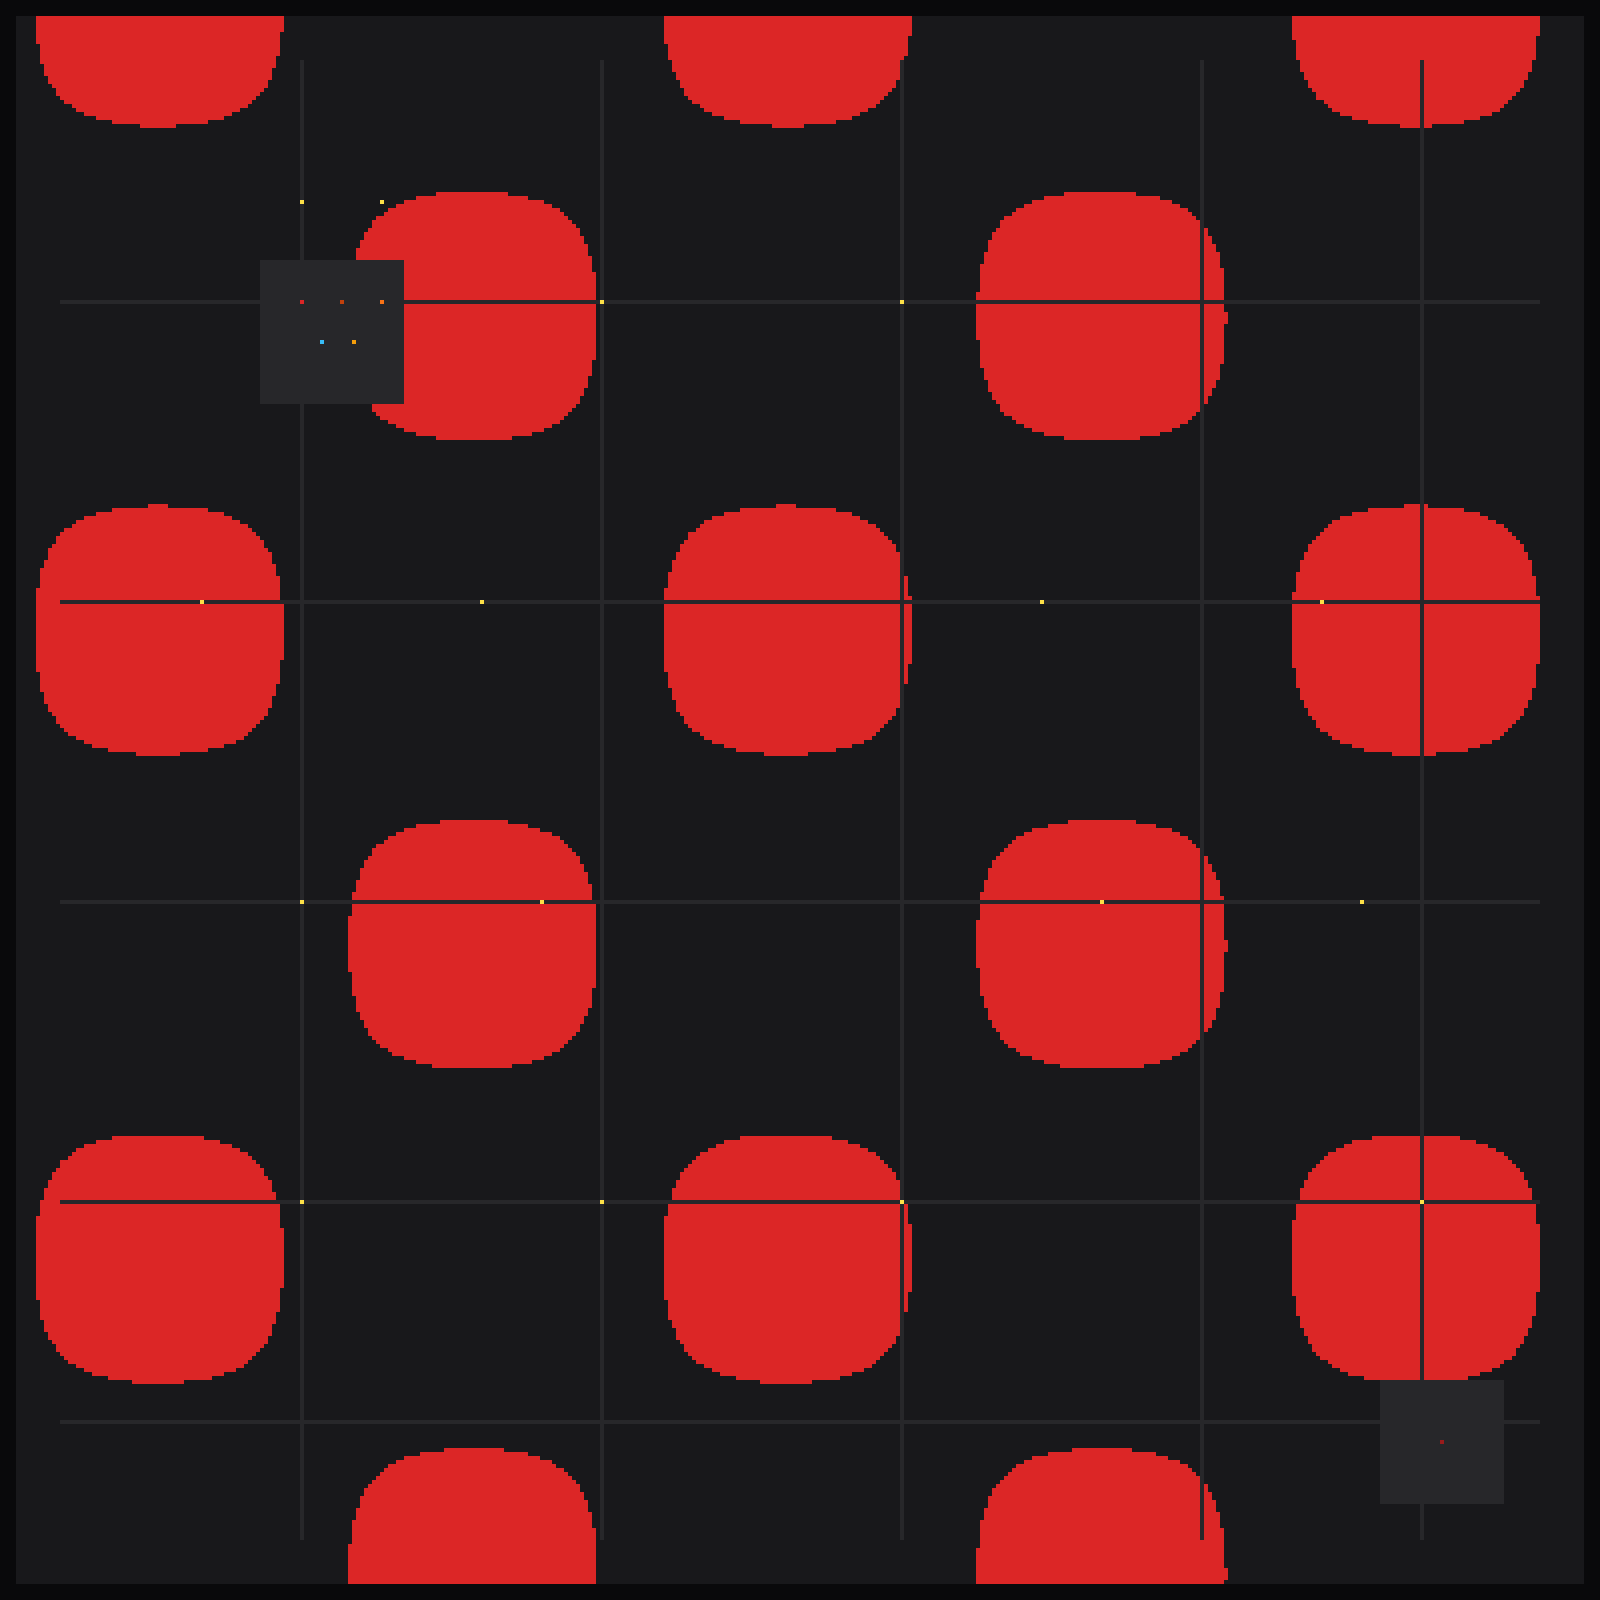
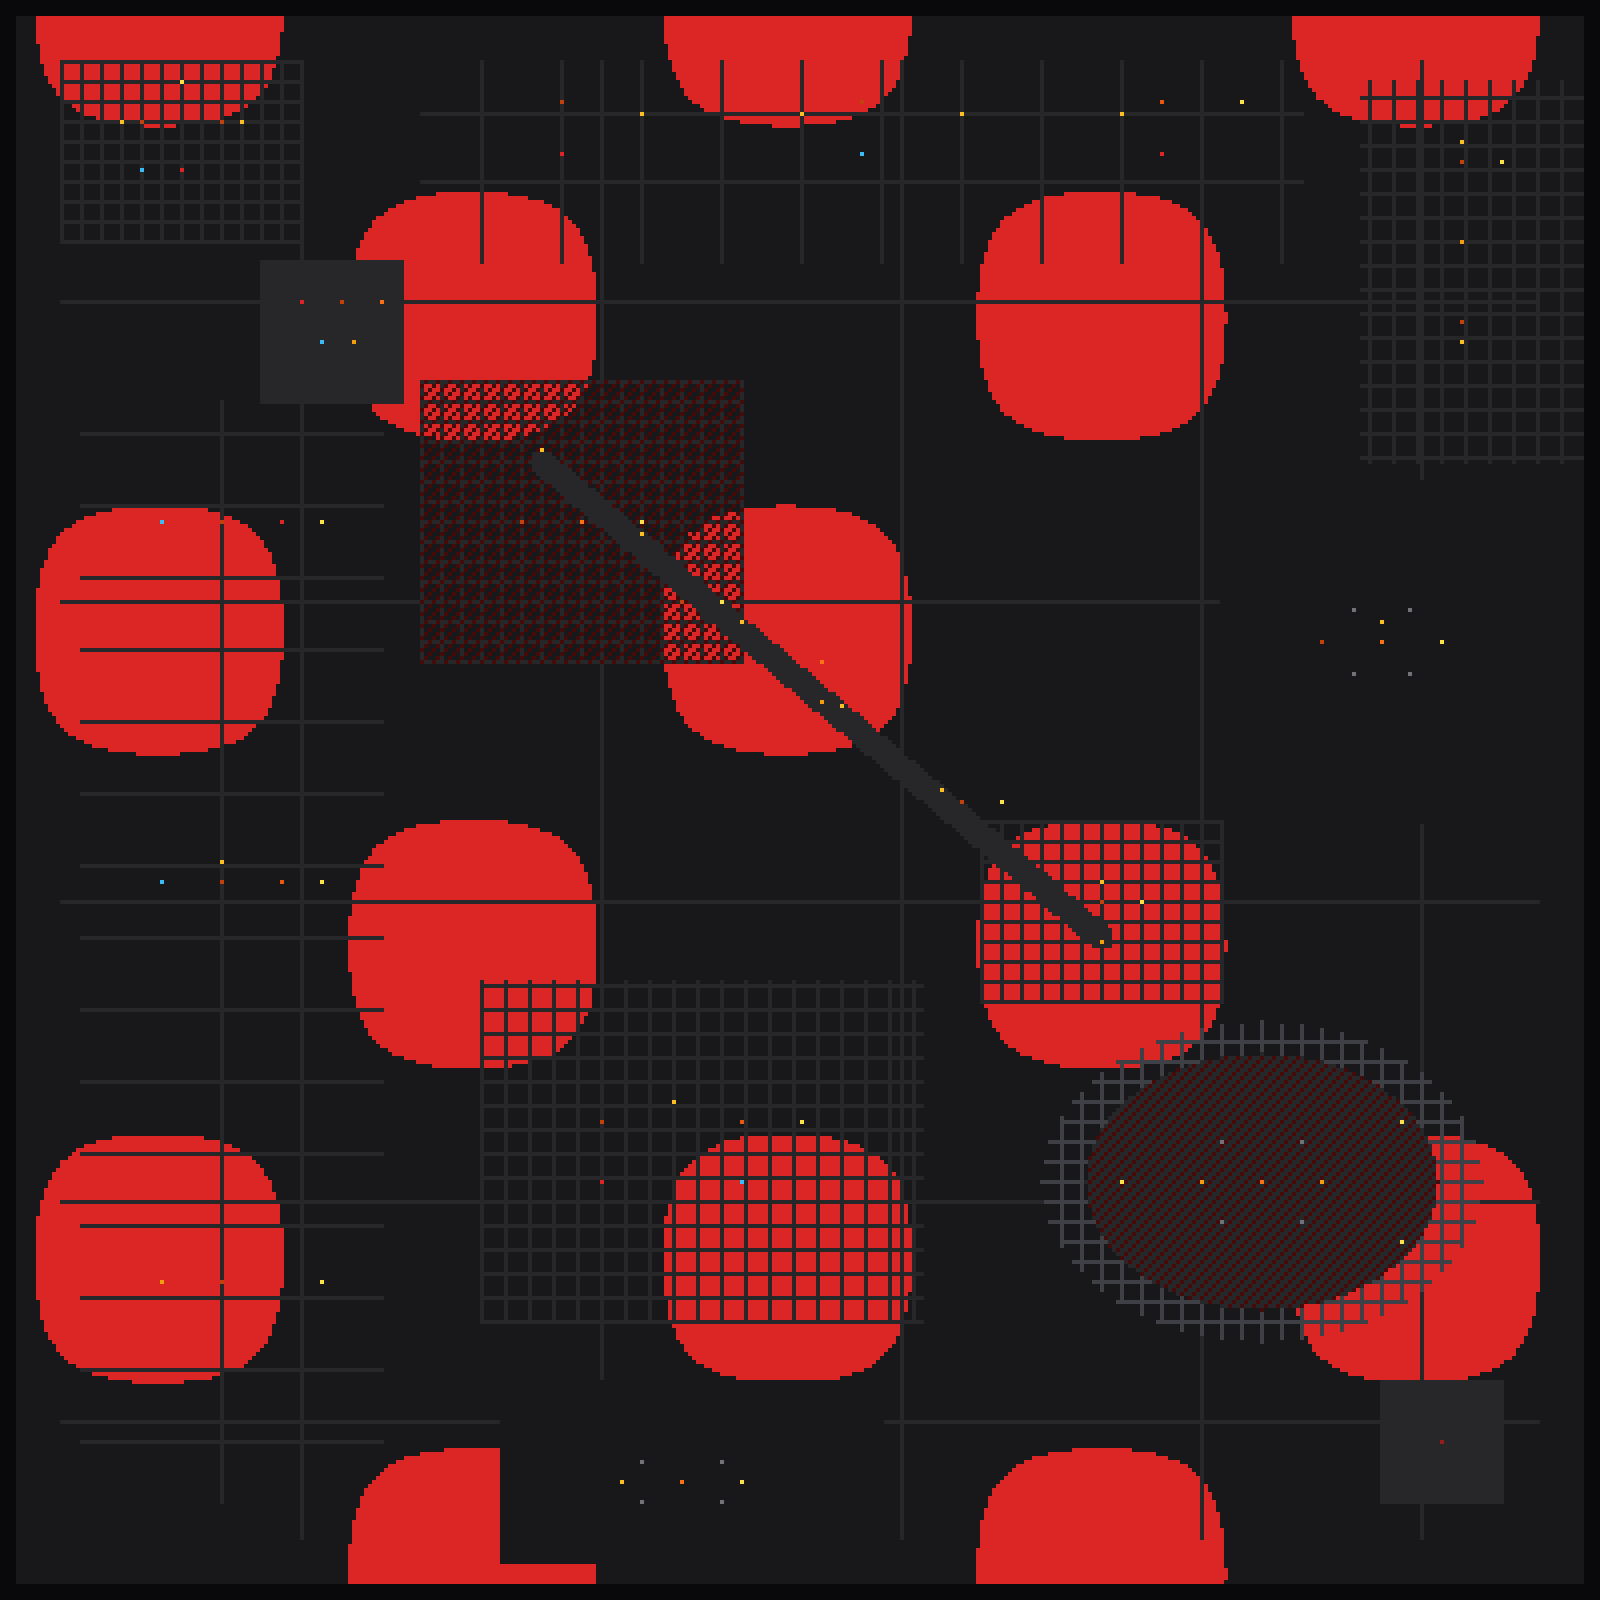
feat: populate Map 4 ancestral volcano with titan forges, magma viaducts, dragon bastions, and 12 new NPCs

diff --git a/src/data/worldMapGenerator400.ts b/src/data/worldMapGenerator400.ts
@@ -1230,13 +1230,173 @@ export function generateVolcano400(): {
   }
   map[360][360] = 11;
 
-  const volcanoChests = [
-    [75, 50], [95, 50], [150, 75], [225, 75],
-    [50, 150], [120, 150], [260, 150], [330, 150],
-    [75, 225], [135, 225], [275, 225], [340, 225],
-    [75, 300], [150, 300], [225, 300], [355, 300]
-  ];
-  volcanoChests.forEach(([cx, cy]) => { map[cy][cx] = 7; });
+  // =========================================================================
+  // 1. PUESTO DEL CRÁTER SUPERIOR (Noroeste: X: 15..75, Y: 15..60)
+  // =========================================================================
+  for (let y = 15; y <= 60; y++) {
+    for (let x = 15; x <= 75; x++) {
+      if (x % 5 === 0 || y % 5 === 0) map[y][x] = 2;
+    }
+  }
+  map[30][35] = 5;  // Cabaña de Basalto 1
+  map[30][55] = 5;  // Cabaña de Basalto 2
+  map[42][45] = 10; // Forja del Cráter
+  map[42][35] = 4;  // Pozo Térmico
+  map[20][45] = 7;  // Cofre del Cráter
+  map[30][30] = 17; map[30][60] = 17;
+
+  // =========================================================================
+  // 2. GRAN CALZADA DE BASALTO Y FUNDICIÓN SUPERIOR (Norte: X: 105..325, Y: 15..65)
+  // =========================================================================
+  for (let y = 15; y <= 65; y++) {
+    for (let x = 105; x <= 325; x++) {
+      if (y === 28 || y === 45 || x % 20 === 0) map[y][x] = 2;
+    }
+  }
+  map[25][140] = 5;  // Taller de Fundición 1
+  map[25][215] = 5;  // Taller de Fundición 2
+  map[25][290] = 9;  // Almacén de Lingotes Ígneos
+  map[38][140] = 10; // Forja Colosal de Lava
+  map[38][290] = 10; // Forja de Titanio
+  map[38][215] = 4;  // Pozo de Enfriamiento
+  map[25][310] = 7;  // Cofre de la Fundición
+  map[28][160] = 17; map[28][200] = 17; map[28][240] = 17; map[28][280] = 17;
+
+  // =========================================================================
+  // 3. ATALAYA DE LAS CENIZAS ARDIENTES (Noreste: X: 340..395, Y: 20..115)
+  // =========================================================================
+  for (let y = 20; y <= 115; y++) {
+    for (let x = 340; x <= 395; x++) {
+      if (x % 6 === 0 || y % 6 === 0) map[y][x] = 2;
+    }
+  }
+  map[40][365] = 5;  // Atalaya de Cenizas
+  map[80][365] = 5;  // Refugio de Guardia
+  map[60][365] = 19; // Gran Fuego de Ascuas
+  map[40][375] = 7;  // Cofre de Cenizas
+  map[35][365] = 17; map[85][365] = 17;
+
+  // =========================================================================
+  // 4. GRAN AVENIDA DE BASALTO OCCIDENTAL (Oeste: X: 20..95, Y: 100..375)
+  // =========================================================================
+  for (let y = 100; y <= 375; y++) {
+    for (let x = 20; x <= 95; x++) {
+      if (x === 55 || y % 18 === 0) map[y][x] = 2;
+    }
+  }
+  // Barrio Alto (Y: 130)
+  map[130][55] = 5; map[130][70] = 10; map[130][40] = 4; map[130][80] = 7;
+  // Plaza Central (Y: 220)
+  map[220][55] = 5; map[220][70] = 9; map[220][40] = 4; map[220][80] = 7; map[215][55] = 17;
+  // Bastión Minero del Sur (Y: 320)
+  map[320][55] = 5; map[320][70] = 10; map[320][40] = 19; map[320][80] = 7;
+
+  // =========================================================================
+  // 5. LABORATORIO PIROCLÁSTICO DE AZUFRE (Centro-Noroeste: X: 105..185, Y: 95..165)
+  // =========================================================================
+  for (let y = 95; y <= 165; y++) {
+    for (let x = 105; x <= 185; x++) {
+      if ((x + y) % 3 === 0) map[y][x] = 14;
+      else if (x % 5 === 0 || y % 5 === 0) map[y][x] = 2;
+    }
+  }
+  map[130][145] = 8;  // Santuario de Fuego Purificador
+  map[130][130] = 5;  // Laboratorio de Azufre
+  map[130][160] = 7;  // Cofre de Azufre
+  map[125][145] = 17;
+
+  // =========================================================================
+  // 6. GRAN VIADUCTO CENTRAL SOBRE EL MAR DE MAGMA (Diagonal: X: 125..290, Y: 110..245)
+  // =========================================================================
+  for (let i = 0; i <= 140; i++) {
+    const vx = 135 + i;
+    const vy = 115 + Math.round(i * 0.85);
+    for (let dy = -2; dy <= 2; dy++) {
+      for (let dx = -2; dx <= 2; dx++) {
+        map[vy + dy][vx + dx] = 2; // Calzada ignífuga reforzada
+      }
+    }
+    if (i % 25 === 0) map[vy - 3][vx] = 17;
+  }
+  map[150][170] = 5;  // Puesto de Control 1
+  map[200][240] = 5;  // Puesto de Control 2
+  map[175][205] = 19; // Gran Fuego Titánico
+  map[165][205] = 8;  // Santuario del Viaducto
+  map[150][180] = 7; map[200][250] = 7; // Cofres del Viaducto
+
+  // =========================================================================
+  // 7. CÁMARA DE LAS GEODAS DE RUBÍ Y CRISTAL (Centro-Este: X: 305..385, Y: 120..205)
+  // =========================================================================
+  for (let y = 120; y <= 205; y++) {
+    for (let x = 305; x <= 385; x++) {
+      map[y][x] = 0;
+    }
+  }
+  map[160][345] = 8;  // Santuario de Rubí
+  map[160][330] = 5;  // Cabaña de Gemólogos
+  map[152][338] = 18; map[152][352] = 18; map[168][338] = 18; map[168][352] = 18; // Columnas
+  map[160][360] = 7;  // Cofre de Rubíes
+  map[155][345] = 17;
+
+  // =========================================================================
+  // 8. PUESTO DE GUARDIA DEL PUENTE DE FUEGO (Medio-Este: X: 245..305, Y: 205..250)
+  // =========================================================================
+  for (let y = 205; y <= 250; y++) {
+    for (let x = 245; x <= 305; x++) {
+      if (x % 5 === 0 || y % 5 === 0) map[y][x] = 2;
+    }
+  }
+  map[225][275] = 5;  // Cuartel de Guardia
+  map[235][275] = 19; // Fogata
+  map[225][285] = 7;  // Cofre de Armas
+  map[220][275] = 17;
+
+  // =========================================================================
+  // 9. POBLADO DE LOS DOMADORES DE SALAMANDRAS (Suroeste: X: 120..230, Y: 245..330)
+  // =========================================================================
+  for (let y = 245; y <= 330; y++) {
+    for (let x = 120; x <= 230; x++) {
+      if (x % 6 === 0 || y % 6 === 0) map[y][x] = 2;
+    }
+  }
+  map[280][150] = 5;  // Cabaña de Domadores
+  map[280][185] = 9;  // Puesto de Escamas de Dragón
+  map[295][150] = 10; // Forja de Corazas
+  map[295][185] = 4;  // Pozo
+  map[280][200] = 7;  // Cofre de Salamandras
+  map[275][168] = 17;
+
+  // =========================================================================
+  // 10. BASTIÓN DE LA GUARDIA DE DRAGONES Y CRIPTA (Sureste: X: 255..380, Y: 255..345)
+  // =========================================================================
+  for (let y = 255; y <= 345; y++) {
+    for (let x = 255; x <= 380; x++) {
+      const d = Math.hypot((x - 315) / 55, (y - 295) / 40);
+      if (d <= 0.8) {
+        map[y][x] = (x + y) % 3 === 0 ? 14 : 2;
+      } else if (d <= 1.0) {
+        if ((x * y) % 5 === 0) map[y][x] = 16; // Lápidas de dragones
+      }
+    }
+  }
+  map[295][315] = 8;  // Gran Mausoleo de Ceniza
+  map[285][305] = 18; map[285][325] = 18; map[305][305] = 18; map[305][325] = 18;
+  map[295][300] = 19; map[295][330] = 19; // Fuegos de dragón
+  // 3 Cofres Titánicos
+  map[295][280] = 7; map[280][350] = 7; map[310][350] = 7;
+
+  // =========================================================================
+  // 11. SANTUARIO DEL CORAZÓN DEL TITÁN (Fondo Sur: X: 125..220, Y: 345..390)
+  // =========================================================================
+  for (let y = 345; y <= 390; y++) {
+    for (let x = 125; x <= 220; x++) {
+      map[y][x] = 0;
+    }
+  }
+  map[370][170] = 8;  // Santuario del Corazón del Titán
+  map[365][160] = 18; map[365][180] = 18; map[375][160] = 18; map[375][180] = 18;
+  map[370][185] = 7;  // Cofre Ancestral
+  map[370][155] = 17;
 
   return {
     tileData: map,

diff --git a/src/data/zonesData.ts b/src/data/zonesData.ts
@@ -1042,6 +1042,174 @@ export const ZONES: Zone[] = [
         tip: '💡 CONSEJO DE FUEGO: Usa habilidades de elemento Hielo o Sagrado para infligir daño crítico en el volcán.',
         quest: ALL_GAME_QUESTS.find((q) => q.id === 'q_main_volcano_1'),
       },
+      {
+        id: 'npc_volcano_crater_scout',
+        zoneId: 'zone_volcano',
+        x: 35,
+        y: 30,
+        name: 'Vigía Kael',
+        title: 'Observador del Cráter Superior',
+        avatarStyle: 'scout',
+        dialogue: [
+          '¡El humo del cráter arde con fuerza hoy! El río de lava corre directamente hacia la Gran Calzada.',
+          'Nuestras cabañas de basalto negro están reforzadas para resistir la lluvia de cenizas.'
+        ],
+        tip: '💡 CONSEJO DE CRÁTER: En los pozos térmicos del norte puedes enfriar y forjar armas incandescentes.',
+      },
+      {
+        id: 'npc_volcano_master_foundry',
+        zoneId: 'zone_volcano',
+        x: 140,
+        y: 25,
+        name: 'Maestro Vulkan',
+        title: 'Gran Fundidor de Ignis',
+        avatarStyle: 'blacksmith',
+        dialogue: [
+          '¡Canalizamos el magma volcánico directamente a través de las calzadas de piedra para alimentar nuestras forjas!',
+          'El acero de titanio forjado aquí no se quiebra ni bajo la fuerza de un dragón colosal.'
+        ],
+        tip: '💡 CONSEJO DE FUNDICIÓN: Las armas de titanio ígneo causan un 40% de daño continuo por quemadura.',
+      },
+      {
+        id: 'npc_volcano_ash_sentinel',
+        zoneId: 'zone_volcano',
+        x: 365,
+        y: 40,
+        name: 'Centinela Ragnor',
+        title: 'Vigía de las Cenizas Ardientes',
+        avatarStyle: 'knight',
+        dialogue: [
+          'Desde esta atalaya rocosa vigilamos el espacio aéreo del volcán. Los dragones menores surcan los cielos.',
+          'Mantén tu escudo arriba; los proyectiles de lava caen sin previo aviso.'
+        ],
+        tip: '💡 CONSEJO DE VIGÍA: El elemento Hielo ralentiza la velocidad de los monstruos de fuego a la mitad.',
+      },
+      {
+        id: 'npc_volcano_high_blacksmith',
+        zoneId: 'zone_volcano',
+        x: 70,
+        y: 130,
+        name: 'Herrero Brann',
+        title: 'Armero del Barrio Alto',
+        avatarStyle: 'blacksmith',
+        dialogue: [
+          'Nuestras forjas del oeste templan espadas de magma con una aleación secreta de azufre y obsidiana.',
+          'Si sigues la avenida de basalto hacia el sur, llegarás a la Plaza Central y a la Taberna de la Brasa.'
+        ],
+        tip: '💡 CONSEJO DE AVENIDA: La gran calzada de basalto occidental te permite cruzar el mapa de norte a sur sin pisar lava.',
+      },
+      {
+        id: 'npc_volcano_innkeeper',
+        zoneId: 'zone_volcano',
+        x: 55,
+        y: 220,
+        name: 'Tabernero Gorim',
+        title: 'Patrón de la Taberna de la Brasa',
+        avatarStyle: 'blacksmith',
+        dialogue: [
+          '¡Pasa y refréscate con un hidromiel helado de montaña! Aquí descansan los aventureros más intrépidos.',
+          'Nuestro pozo de agua fría se alimenta de nieves glaciares canalizadas bajo tierra.'
+        ],
+        tip: '💡 CONSEJO DE TABERNA: El descanso completo en la posada cura todas las quemaduras y restaura 100% de PS.',
+      },
+      {
+        id: 'npc_volcano_obsidian_mason',
+        zoneId: 'zone_volcano',
+        x: 55,
+        y: 320,
+        name: 'Cantero Harek',
+        title: 'Maestro de la Obsidiana',
+        avatarStyle: 'blacksmith',
+        dialogue: [
+          'La obsidiana es vidrio volcánico afilado como una navaja. Tallamos puntas de flecha y dagas mortíferas.',
+          'Los cofres del bastión sur contienen gemas y lingotes preciosos extraídos de la roca fundida.'
+        ],
+        tip: '💡 CONSEJO DE OBSIDIANA: Las dagas de obsidiana tienen una probabilidad de crítico aumentada en un 35%.',
+      },
+      {
+        id: 'npc_volcano_pyro_alchemist',
+        zoneId: 'zone_volcano',
+        x: 130,
+        y: 130,
+        name: 'Alquimista Zarek',
+        title: 'Erudito Piroclástico',
+        avatarStyle: 'wizard',
+        dialogue: [
+          'Destilo azufre puro y sales de lava para preparar elixires de inmunidad al fuego.',
+          'El Santuario de Fuego Purificador bendice a los guerreros con resistencia piroclástica permanente.'
+        ],
+        tip: '💡 CONSEJO PIROCLÁSTICO: Las pociones ignífugas absorben el 50% de todo el daño de fuego entrante.',
+      },
+      {
+        id: 'npc_volcano_viaduct_guard',
+        zoneId: 'zone_volcano',
+        x: 170,
+        y: 150,
+        name: 'Capitán Torin',
+        title: 'Comandante del Gran Viaducto',
+        avatarStyle: 'knight',
+        dialogue: [
+          '¡Este viaducto es la maravilla arquitectónica de los Titanes! Cruza en diagonal sobre el mar de magma ardiente.',
+          'Los puestos de control intermedios están equipados con fogatas y cofres de suministros.'
+        ],
+        tip: '💡 CONSEJO DEL VIADUCTO: El viaducto conecta directamente el norte con el corazón del volcán.',
+      },
+      {
+        id: 'npc_volcano_ruby_gemologist',
+        zoneId: 'zone_volcano',
+        x: 330,
+        y: 160,
+        name: 'Gemóloga Pyra',
+        title: 'Talladora del Rubí de Sangre',
+        avatarStyle: 'wizard',
+        dialogue: [
+          'En esta cúpula de geodas crecen los rubíes volcánicos más puros de todo el reino.',
+          'Las formaciones de cuarzo de fuego amplifican la magia elemental de los hechiceros.'
+        ],
+        tip: '💡 CONSEJO DE GEMAS: Engarzar rubíes volcánicos añade +30 de ataque de fuego a cualquier arma.',
+      },
+      {
+        id: 'npc_volcano_bridge_sentinel',
+        zoneId: 'zone_volcano',
+        x: 275,
+        y: 225,
+        name: 'Centinela Vane',
+        title: 'Guardián del Puente de Fuego',
+        avatarStyle: 'knight',
+        dialogue: [
+          '¡Alto! Al sur de este puente se extienden los dominios del Dragón Ignis y sus bestias salamandra.',
+          'Asegúrate de llevar pociones de salud abundantes antes de cruzar hacia la caldera.'
+        ],
+        tip: '💡 CONSEJO DEL PUENTE: Las armas de hielo causan congelación, haciendo perder turnos al enemigo.',
+      },
+      {
+        id: 'npc_volcano_salamander_tamer',
+        zoneId: 'zone_volcano',
+        x: 150,
+        y: 280,
+        name: 'Domador Rex',
+        title: 'Criador de Salamandras de Magma',
+        avatarStyle: 'scout',
+        dialogue: [
+          'Criamos salamandras gigantes capaces de nadar en lava pura.',
+          'Con sus escamas caídas forjamos las corazas más resistentes al fuego del continente.'
+        ],
+        tip: '💡 CONSEJO DE CRIADOR: Las corazas de salamandra reflejan el 20% del daño recibido hacia el atacante.',
+      },
+      {
+        id: 'npc_volcano_dragon_cryptkeeper',
+        zoneId: 'zone_volcano',
+        x: 315,
+        y: 295,
+        name: 'Custodio Ignar',
+        title: 'Guardián del Bastión de Dragones',
+        avatarStyle: 'elder',
+        dialogue: [
+          'Aquí reposan los antiguos dragones de los Titanes en la Cripta de Ceniza.',
+          'Los tres cofres titánicos contienen armaduras legendarias custodiadas por llamas milenarias.'
+        ],
+        tip: '💡 CONSEJO DE DRAGONES: Derrotar al Dragón Infernal Ignis abre el portal hacia los Picos Helados de Frostfall.',
+      },
     ],
     enemies: [
       {
